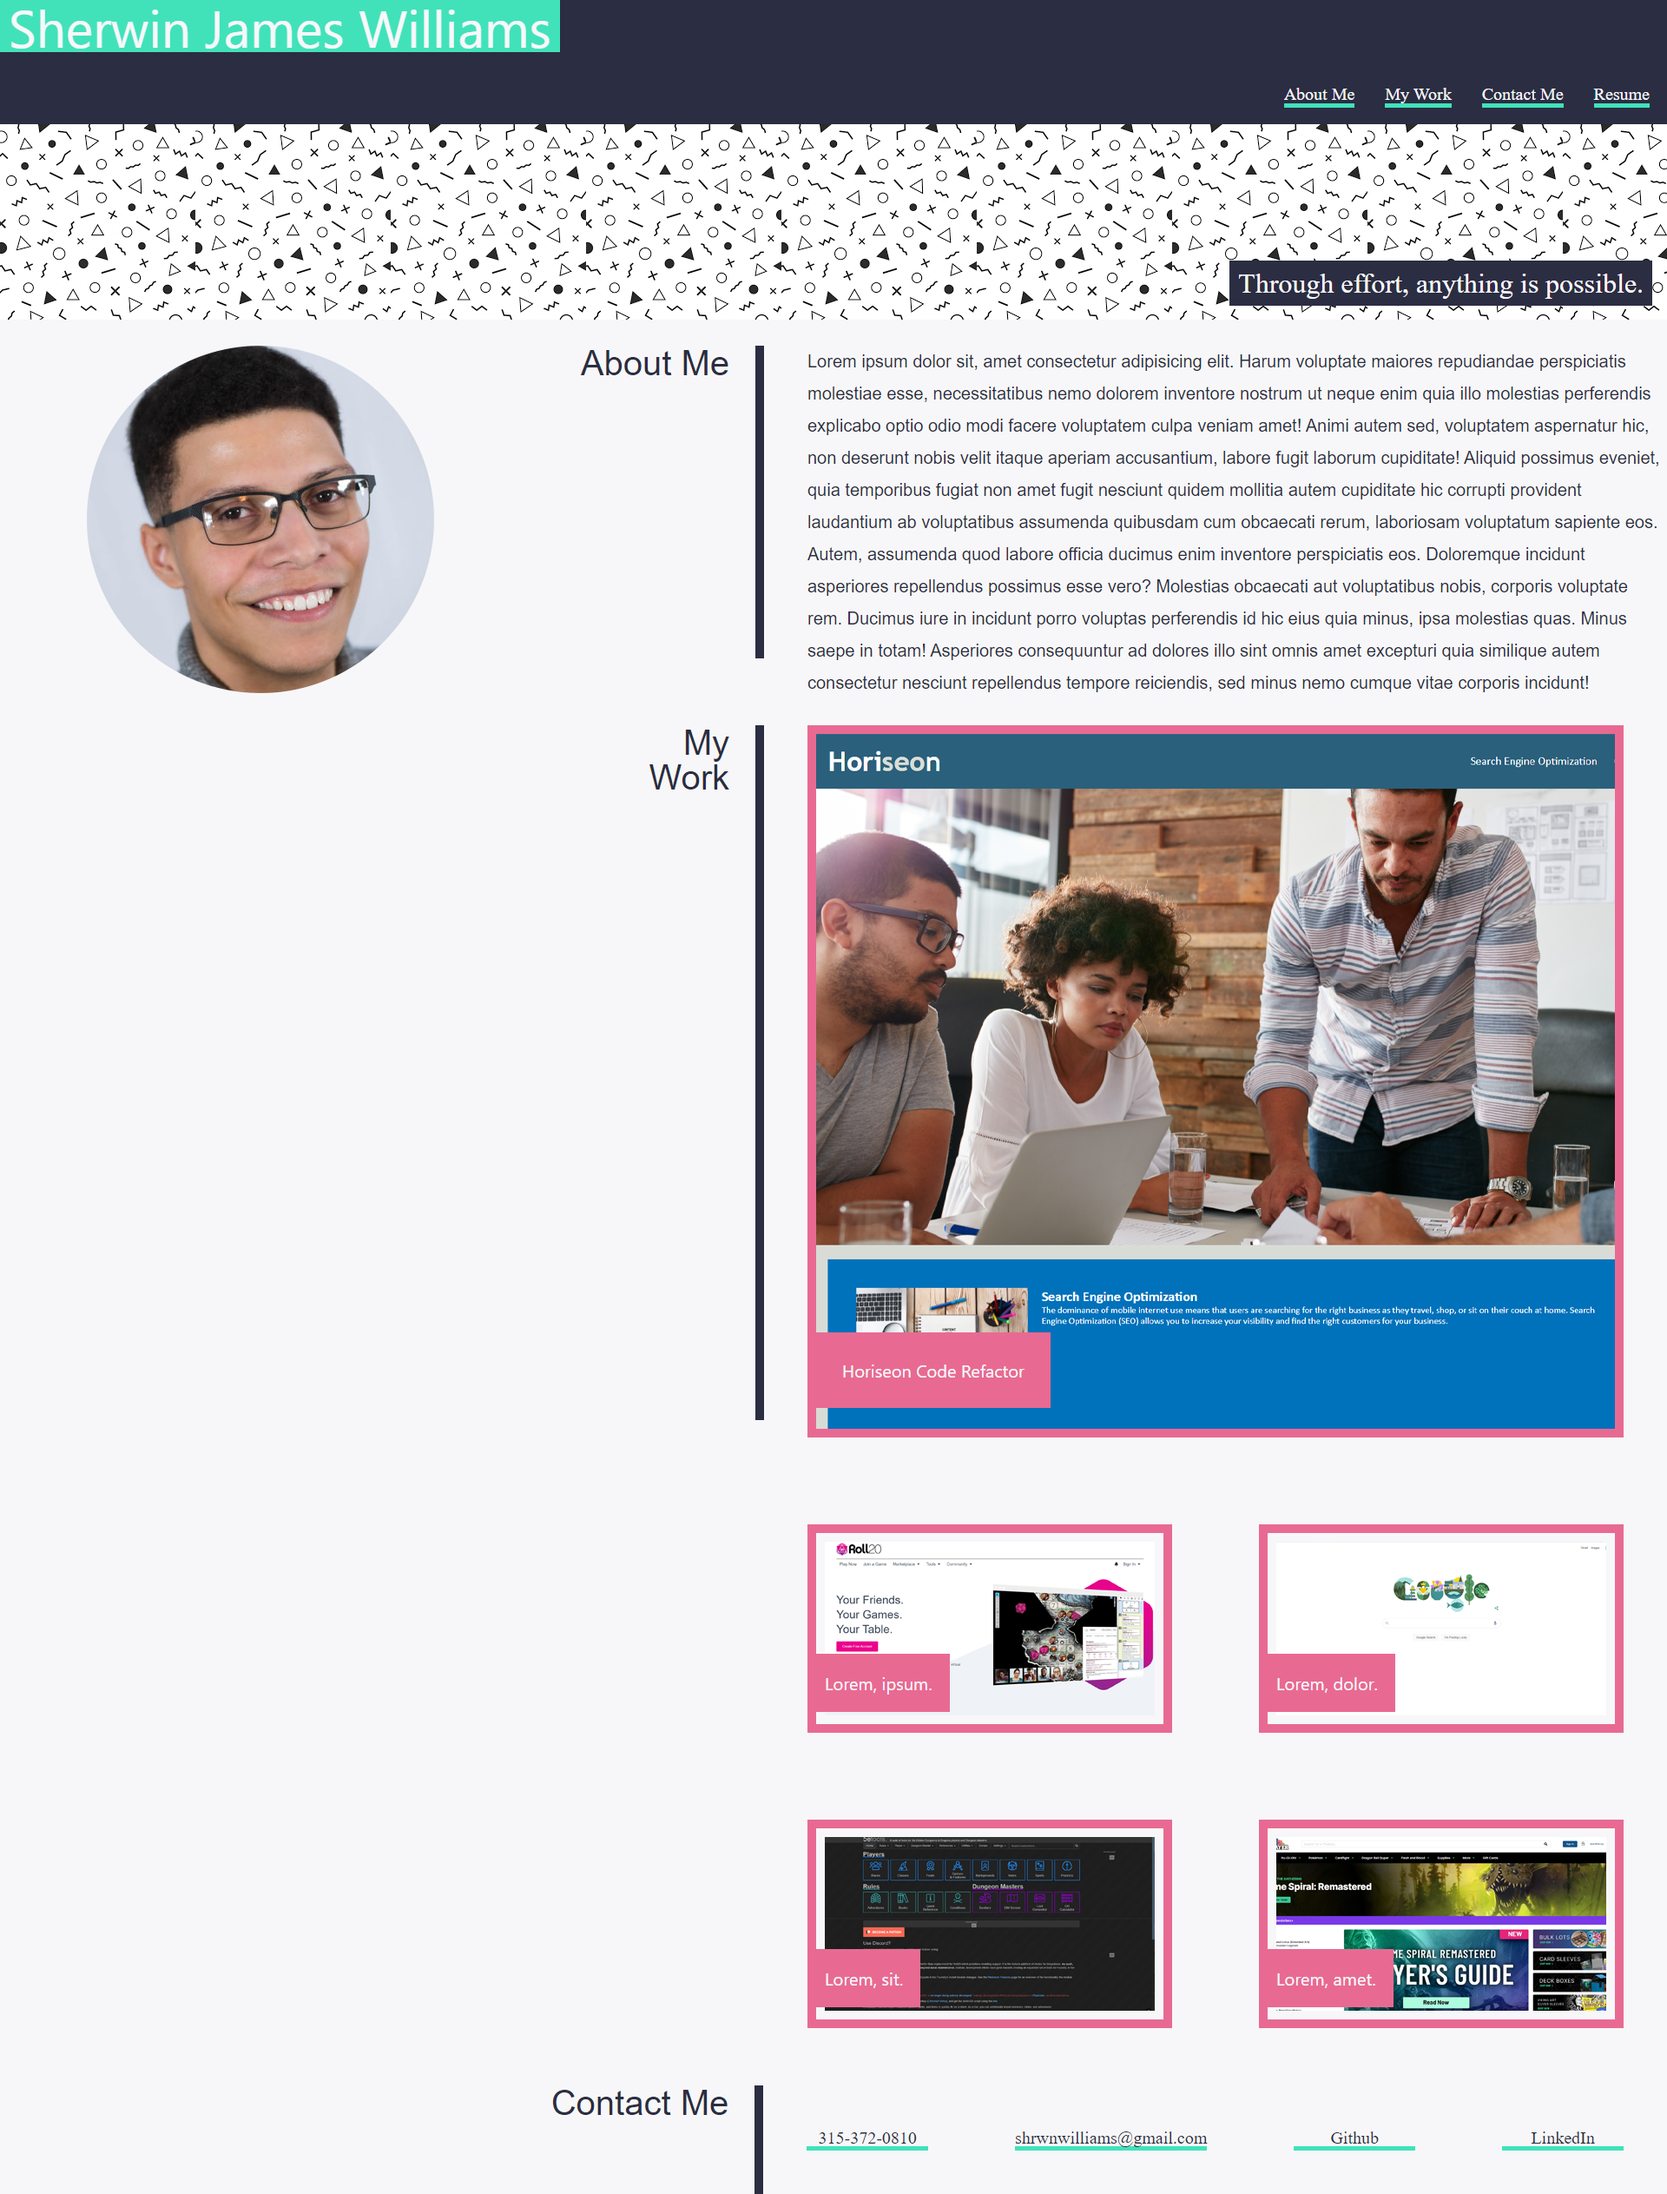
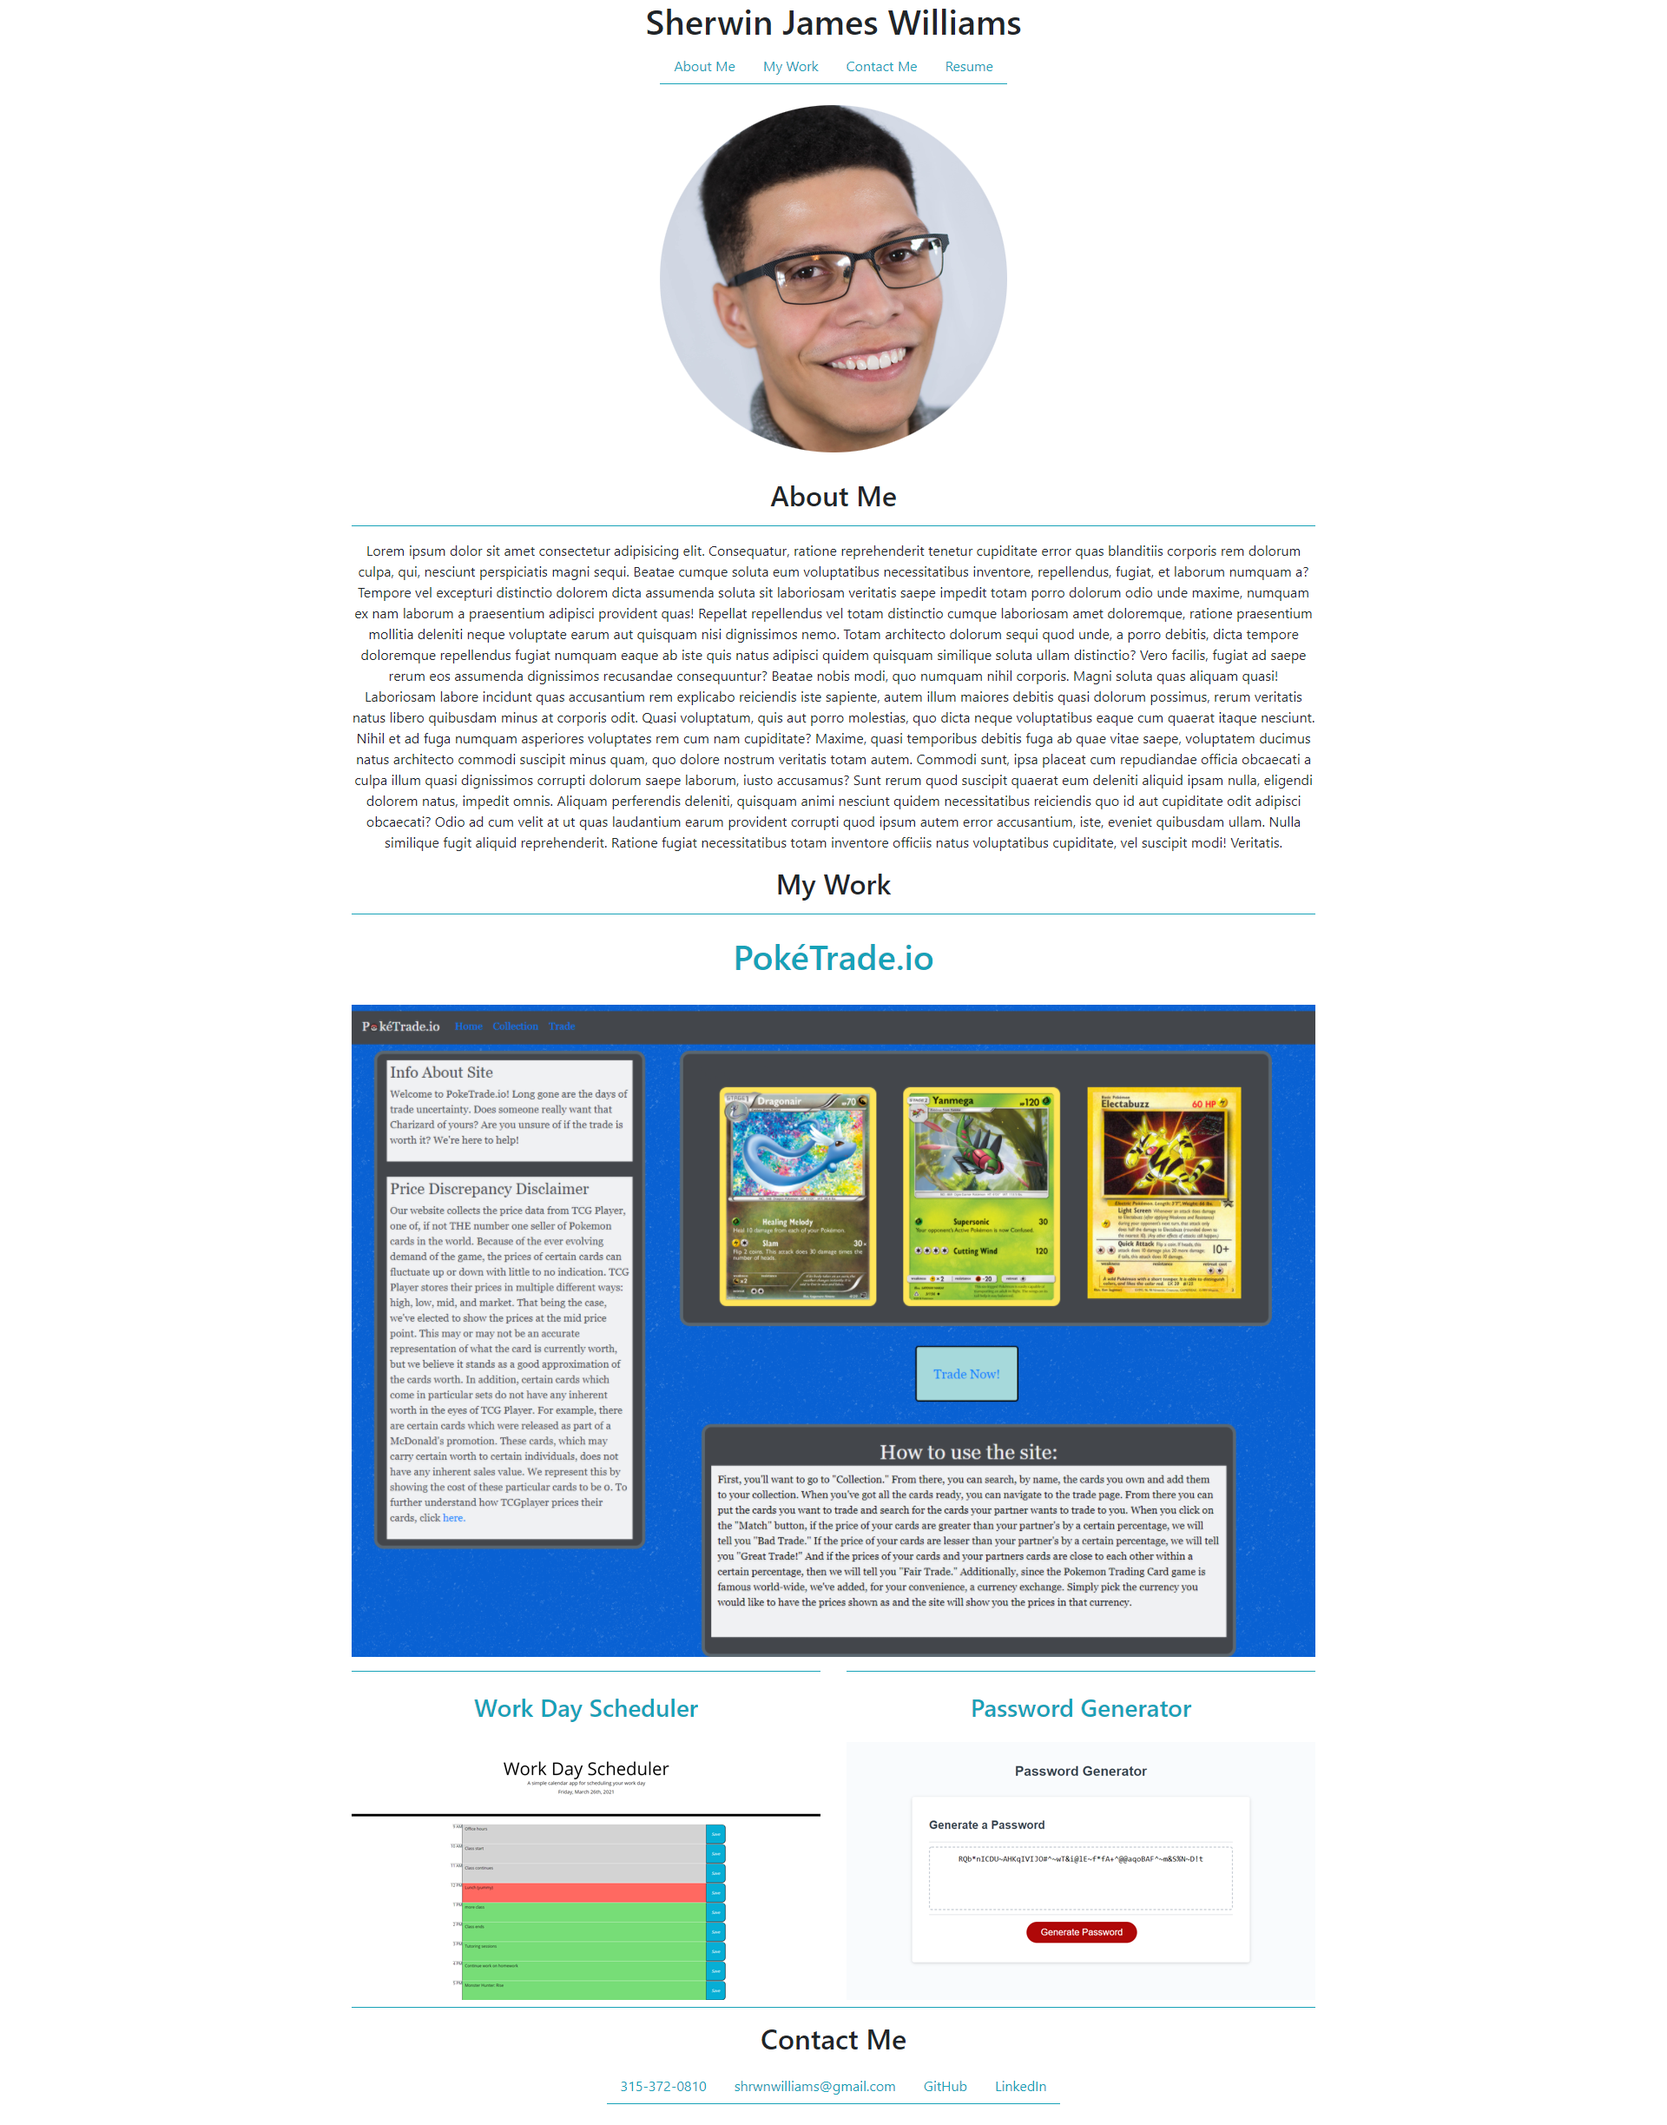
finalized bootstrap styling, html text, and updated the readme

diff --git a/index.html b/index.html
@@ -27,10 +27,10 @@
             <a class="nav-link text-info" href="#my-work">My Work</a>
           </li>
           <li class="nav-item">
-            <a class="nav-link text-info" href="#">Contact Me</a>
+            <a class="nav-link text-info" href="#contact">Contact Me</a>
           </li>
           <li class="nav-item">
-            <a class="nav-link text-info" href="#">Resume</a>
+            <a class="nav-link text-info" href="https://drive.google.com/file/d/1po010mmQC0JZJWGmxIqeJZQ2g3nFksJe/view?usp=sharing" target="blank">Resume</a>
           </li>
         </ul>
       </nav>
@@ -45,7 +45,40 @@
           <h2 class="text-center mb-3" id="about-me">About Me</h2>
         </div>
         <p class="text-center pt-3">
-          More info coming soon. Sooner than you think...
+          Lorem ipsum dolor sit amet consectetur adipisicing elit. Consequatur,
+          ratione reprehenderit tenetur cupiditate error quas blanditiis
+          corporis rem dolorum culpa, qui, nesciunt perspiciatis magni sequi.
+          Beatae cumque soluta eum voluptatibus necessitatibus inventore,
+          repellendus, fugiat, et laborum numquam a? Tempore vel excepturi
+          distinctio dolorem dicta assumenda soluta sit laboriosam veritatis
+          saepe impedit totam porro dolorum odio unde maxime, numquam ex nam
+          laborum a praesentium adipisci provident quas! Repellat repellendus
+          vel totam distinctio cumque laboriosam amet doloremque, ratione
+          praesentium mollitia deleniti neque voluptate earum aut quisquam nisi
+          dignissimos nemo. Totam architecto dolorum sequi quod unde, a porro
+          debitis, dicta tempore doloremque repellendus fugiat numquam eaque ab
+          iste quis natus adipisci quidem quisquam similique soluta ullam
+          distinctio? Vero facilis, fugiat ad saepe rerum eos assumenda
+          dignissimos recusandae consequuntur? Beatae nobis modi, quo numquam
+          nihil corporis. Magni soluta quas aliquam quasi! Laboriosam labore
+          incidunt quas accusantium rem explicabo reiciendis iste sapiente,
+          autem illum maiores debitis quasi dolorum possimus, rerum veritatis
+          natus libero quibusdam minus at corporis odit. Quasi voluptatum, quis
+          aut porro molestias, quo dicta neque voluptatibus eaque cum quaerat
+          itaque nesciunt. Nihil et ad fuga numquam asperiores voluptates rem
+          cum nam cupiditate? Maxime, quasi temporibus debitis fuga ab quae
+          vitae saepe, voluptatem ducimus natus architecto commodi suscipit
+          minus quam, quo dolore nostrum veritatis totam autem. Commodi sunt,
+          ipsa placeat cum repudiandae officia obcaecati a culpa illum quasi
+          dignissimos corrupti dolorum saepe laborum, iusto accusamus? Sunt
+          rerum quod suscipit quaerat eum deleniti aliquid ipsam nulla, eligendi
+          dolorem natus, impedit omnis. Aliquam perferendis deleniti, quisquam
+          animi nesciunt quidem necessitatibus reiciendis quo id aut cupiditate
+          odit adipisci obcaecati? Odio ad cum velit at ut quas laudantium earum
+          provident corrupti quod ipsum autem error accusantium, iste, eveniet
+          quibusdam ullam. Nulla similique fugit aliquid reprehenderit. Ratione
+          fugiat necessitatibus totam inventore officiis natus voluptatibus
+          cupiditate, vel suscipit modi! Veritatis.
         </p>
       </section>
 
@@ -54,40 +87,69 @@
           <h2 id="my-work" class="text-center mb-3">My Work</h2>
         </div>
         <div class="box-1">
-          <a class="text-center nav-link"
+          <a
+            class="text-center nav-link"
             href="https://vharris113.github.io/poketrade/index.html"
             target="blank"
-            ><h1 class="mt-3">PokéTrade.io</h1></a
+            ><h1 class="mt-3 text-info">PokéTrade.io</h1></a
           >
-          <img class="img-fluid mt-3"
+          <img
+            class="img-fluid my-3"
             src="./assests/images/poketrade.png"
-            alt="the home page of Horiseon" />
+            alt="the home page of PokéTrade"
+          />
         </div>
       </section>
-      <!--  <section class="my-work-small">
-        <div class="box-2"><img src="./assests/images/website-screenshot-1.png" alt="the home page of roll20" /><p>Lorem, ipsum.</p></div>
-        <div class="box-2"><img src="./assests/images/website-screenshot-2.png" alt="the home page of google" /><p>Lorem, dolor.</p></div>
-      </section>
-      <section class="my-work-small-2">
-        <div class="box-2"><img src="./assests/images/website-screenshot-3.png" alt="the home page of 5etools" /><p>Lorem, sit.</p></div>
-        <div class="box-2"><img src="./assests/images/website-screenshot-4.png" alt="the home page of tcgplayer" /><p>Lorem, amet.</p></div>
-      </section>
-        <img />
-        <img />
-        <img />
-        <img />
-        <img />
-      </section>
 
-        <footer>
-          <nav class="contact-footer">
-            <h2 id="contact" class="contacts">Contact Me</h2>
-            <a class="contact-info" href="tel:1-315-372-0810">315-372-0810</a>
-            <a class="contact-info" href="mailto:shrwnwilliams@gmail.com">shrwnwilliams@gmail.com</a>
-            <a class="contact-info" href="https://github.com/shrwnwilliams" target="blank">Github</a>
-            <a class="contact-info" href="https://www.linkedin.com/in/sherwin-williams-08981a207/" target="blank">LinkedIn</a>
-          </nav>
-        </footer> -->
+      <div class="container">
+        <div class="row mb-2">
+          <div class="col">
+            <a
+              href="https://shrwnwilliams.github.io/work-day-planner/"
+              target="_blank" class="nav-link border-top border-info"
+              ><h3 class="text-center my-3 text-info">Work Day Scheduler</h3></a
+            >
+            <img
+              src="./assests/images/work-day-ss.png"
+              alt=""
+              class="img-fluid"
+            />
+          </div>
+          <div class="col">
+            <a
+              href="https://shrwnwilliams.github.io/random-password-generator/"
+              target="_blank" class="nav-link border-top border-info"
+              ><h3 class="text-center my-3 text-info">Password Generator</h3></a
+            >
+            <img
+              src="./assests/images/password-ss.png"
+              alt="the home page of google"
+              class="img-fluid"
+            />
+          </div>
+        </div>
+        <div class="border-bottom border-info"></div>
+      </div>
+
+      <footer>
+        <h2 class="text-center my-3">Contact Me</h2>
+        <nav id="nav-bar" class="nav justify-content-center">
+          <ul class="nav justify-content-center border-bottom border-info mb-4">
+            <li class="nav-item">
+              <a class="nav-link text-info" href="tel:1-315-372-0810">315-372-0810</a>
+            </li>
+            <li class="nav-item">
+              <a class="nav-link text-info" href="mailto:shrwnwilliams@gmail.com">shrwnwilliams@gmail.com</a>
+            </li>
+            <li class="nav-item">
+              <a class="nav-link text-info" href="https://github.com/shrwnwilliams" target="_blank">GitHub</a>
+            </li>
+            <li class="nav-item">
+              <a class="nav-link text-info" href="https://www.linkedin.com/in/sherwin-williams-08981a207/" target="_blank">LinkedIn</a>
+            </li>
+          </ul>
+        </nav>
+      </footer>
     </main>
   </body>
 </html>

diff --git a/README.md b/README.md
@@ -1,5 +1,5 @@
 # Decription
-This is my finalized portfolio website. Prospective employers can easily navigate the page on desktop or mobile devices. They will be able to:
+This is the next iteration of my portfolio website. I have updated the styling using CSS and went for a more streamlined, simplified design and updated the "My Work" section with my first project and some of my homework assignments. Prospective employers can easily navigate the page on desktop or mobile devices. They will be able to:
 - Learn about me by reading the "About Me" section
 - See examples of my work with the links provided
 - Easily access both my resume and several forms of contact
